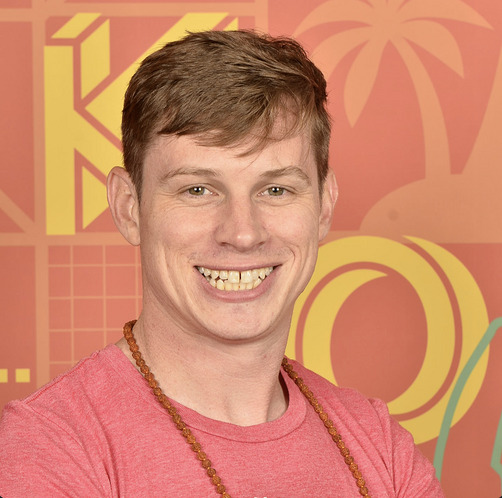
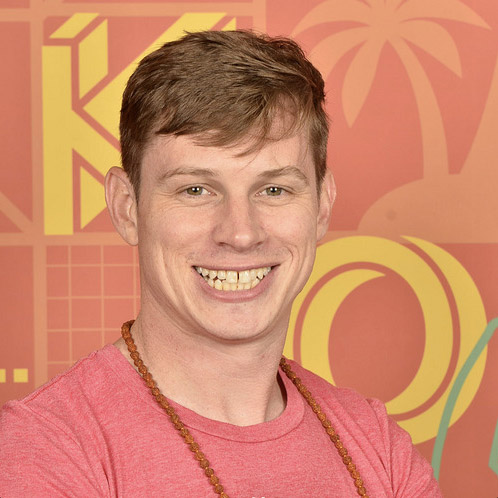
more speakers

diff --git a/themes/osacon/layouts/speakers/list.html b/themes/osacon/layouts/speakers/list.html
@@ -14,7 +14,7 @@
             <a href="{{.Permalink}}">
                 {{ $img := resources.Get (index .Params.images 0) }}
                 {{ $imgp := $img.Resize "400x webp" }}
-                <img src="{{$imgp.Permalink }}" alt="Photo of {{.Title}}" class="img-fluid rounded">
+                <img src="{{$imgp.Permalink }}" alt="Photo of {{.Title}}" class="img-fluid rounded-circle">
             </a>
           </div>
           <div class="speaker-info text-center">

diff --git a/themes/osacon/layouts/partials/featured-speakers.html b/themes/osacon/layouts/partials/featured-speakers.html
@@ -22,7 +22,8 @@
       </div>
       {{ end }}
     </div>
-    <hr class="section-divider">
+    <h3 class="mt-4">More coming soon. Want to see your picture here?  The <a href="https://sessionize.com/osa-con-2023/" target="_blank">CfP is open</a> for innovative presentations. Submit now!</h3>
+
   </div>
 </section>
 

diff --git a/content/speakers/shirshanka-das/_index.md b/content/speakers/shirshanka-das/_index.md
@@ -1,0 +1,15 @@
+---
+title: "Shirshanka Das"
+date: 2023-10-07T15:11:19-03:00
+images: 
+ - images/speakers/shirshanka-das.jpg
+designation: CTO and Co-Founder at Acryl Data
+twitter: 
+linkedin: https://www.linkedin.com/in/shirshankadas/
+github: 
+events:
+ - 2023
+featured: true
+---
+
+Shirshanka is co-founder and CTO of Acryl Data, the company which is commercializing the open source DataHub project, a real-time metadata platform used by LinkedIn, Stripe, Pinterest, Optum, Expedia and many others. Prior to founding Acryl, he was the overall architect for Big Data at LinkedIn from 2010 to 2020, and responsible for creating the metadata and data management strategy at the company. As part of this, he founded the DataHub project and shaped its evolution to a metadata platform that powers DataOps, MLOps, productivity, and governance use cases at LinkedIn. He is also a PMC and committer on the Apache Gobblin project which manages 100PB+ of data assets at rest at LinkedIn, and is deployed in production at other large companies like Verizon, PayPal etc. Prior to LinkedIn, Shirshanka worked on high-performance serving systems at Yahoo and PayPal. Shirshanka has a Ph.D. in Computer Science from UCLA.

diff --git a/content/speakers/juan-luis-cano-rodriguez/_index.md b/content/speakers/juan-luis-cano-rodriguez/_index.md
@@ -1,0 +1,19 @@
+---
+title: "Juan Luis Cano Rodriguez"
+date: 2023-10-07T15:09:15-03:00
+images: 
+ - images/speakers/juan-luis-cano-rodriguez.jpg
+designation: Product Manager + Developer Advocate
+twitter: 
+linkedin: 
+github: 
+events:
+ - 2023
+featured: true 
+---
+
+Juan Luis is an Aerospace Engineer with a passion for STEM, programming, outreach, and sustainability. He has a decade of experience as developer advocate, software engineer, and Python trainer in several industries, and currently he works as Principal Product Manager for Kedro, an open source Python framework for data science, at QuantumBlack, AI by McKinsey.
+
+He has made significant contributions to the PyData stack and published several open-source packages, the most important one being poliastro, an open-source Python library for orbital mechanics used at space agencies, satellite companies, and universities.
+
+After founding the Python España non-profit and co-organizing the first seven PyCons in Spain, he became a Python Software Foundation Fellow in 2017. Nowadays he is the lead organizer of the PyData Madrid monthly meetups.

diff --git a/content/speakers/michel-tricot/_index.md b/content/speakers/michel-tricot/_index.md
@@ -1,0 +1,19 @@
+---
+title: "Michel Tricot"
+date: 2023-10-07T15:02:33-03:00
+images: 
+ - images/speakers/michel-tricot.jpg
+designation: CEO at Airbyte 
+twitter: 
+linkedin: 
+github: 
+events:
+ - 2023
+featured: true 
+---
+
+Michel is the co-founder and CEO of Airbyte, the leading open-source data integration platform that allows replicating data from any APIs, databases & files to data warehouses, data lakes, and any other destinations. Airbyte has been used by over 40k companies and has over 4k daily active customers. Airbyte raised $180M from Accel, Benchmark, Coatue & Altimeter.
+
+Prior to starting Airbyte, Michel was a founding member & Director of Engineering at rideOS, and Head of Integrations and Director of Engineering at LiveRamp.
+
+With Airbyte, Michel aims to solve one of engineers’ biggest problems with data: break down all data silos and make data accessible and available to everyone, everywhere.

diff --git a/content/speakers/cameron-cyr/_index.md b/content/speakers/cameron-cyr/_index.md
@@ -1,0 +1,15 @@
+---
+title: "Cameron Cyr"
+date: 2023-10-07T15:04:40-03:00
+images: 
+ - images/speakers/cameron-cyr.jpg
+designation: Staff Data Engineer at Breezeway
+twitter: 
+linkedin: https://www.linkedin.com/in/cameron-cyr/
+github: 
+events:
+ - 2023
+featured: true 
+---
+
+Cameron is a data fanatic who has spent his career developing data systems enabling valuable use cases such as analytics and machine learning. During this time, he has placed a focus on building reliable and scalable data systems with an emphasis on data quality. Cameron currently serves as a Staff Data Engineer for a vacation rental tech startup. He also is one of the organizers of the Nashville Data Engineering Group meetup. Most recently, he published his first book Unlocking dbt.

diff --git a/content/speakers/jordan-tigani/_index.md b/content/speakers/jordan-tigani/_index.md
@@ -1,0 +1,15 @@
+---
+title: "Jordan Tigani"
+date: 2023-10-07T15:06:54-03:00
+images: 
+ - images/speakers/jordan-tigani.jpg
+designation: Duck Herder at MotherDuck
+twitter: 
+linkedin: https://www.linkedin.com/in/jordantigani/
+github: 
+events:
+ - 2023
+featured: true
+---
+
+Jordan is co-founder and chief duck-herder at MotherDuck, a startup building a serverless analytics platform based on DuckDB. He spent a decade working on Google BigQuery, an engineer, book author, Eng and PM leader.  More recently, as Chief Product Officer at SingleStore, he helped them relaunch their database as a service and grow it into a thriving business. His biggest claim to fame is predicting world cup matches with a better record than Paul the Octopus.

diff --git a/content/speakers/zander-matheson/_index.md b/content/speakers/zander-matheson/_index.md
@@ -1,0 +1,15 @@
+---
+title: "Zander Matheson"
+date: 2023-10-07T15:12:36-03:00
+images: 
+ - images/speakers/zander-matheson.jpg
+designation: CEO and Founder at Bytewax
+twitter: 
+linkedin: https://www.linkedin.com/in/alexandermatheson/
+github: 
+events:
+ - 2023
+featured: true
+---
+
+Zander is the CEO and Founder of Bytewax - a Python stream processing framework. His previous experience prior to Bytewax had been as a data scientist at GitHub and Heroku. He lives in Santa Cruz, California and when not at his computer likes to get outdoors.

diff --git a/content/speakers/pat-nadolny/_index.md b/content/speakers/pat-nadolny/_index.md
@@ -1,0 +1,15 @@
+---
+title: "Pat Nadolny"
+date: 2023-10-07T14:48:33-03:00
+images: 
+ - images/speakers/pat-nadolny.jpg
+designation: Senior Data Engineer at Meltano
+twitter: 
+linkedin: https://www.linkedin.com/in/patnadolny/
+github: 
+events:
+ - 2023
+featured: true 
+---
+
+Pat is Senior Data Engineer at Meltano where he spends most of his time contributing to the Meltano open source project and its surrounding ecosystem.

diff --git a/content/speakers/ryan-blue/_index.md b/content/speakers/ryan-blue/_index.md
@@ -1,0 +1,15 @@
+---
+title: "Ryan Blue"
+date: 2023-10-07T14:58:45-03:00
+images: 
+ - images/speakers/ryan-blue.jpg
+designation: Co-creator of Apache Iceberg | Co-founder of Tabular
+twitter: 
+linkedin: https://www.linkedin.com/in/rdblue/
+github: 
+events:
+ - 2023
+featured: true 
+---
+
+Ryan Blue is the co-creator of Apache Iceberg and works on open source data infrastructure. He is an Avro, Parquet, and Spark committer.

diff --git a/content/speakers/_index.md b/content/speakers/_index.md
@@ -4,4 +4,4 @@ title: Speakers
 ---
 
 
-### Meet our confirmed speakers so far. 
+### Meet our confirmed speakers so far. Want to see your picture here?  The <a href="https://sessionize.com/osa-con-2023/" target="_blank">CFP is open</a> for innovative presentations. Submit now!

diff --git a/archetypes/speakers/_index.md b/archetypes/speakers/_index.md
@@ -3,12 +3,12 @@ title: "{{ replace .Name "-" " " | title }}"
 date: {{ .Date }}
 images: 
  - images/speakers/{{ .Name }}.jpg
-designation : 
+designation: 
 twitter: 
 linkedin: 
 github: 
 events:
- - 2020
+ - 2023
 ---
 
 
